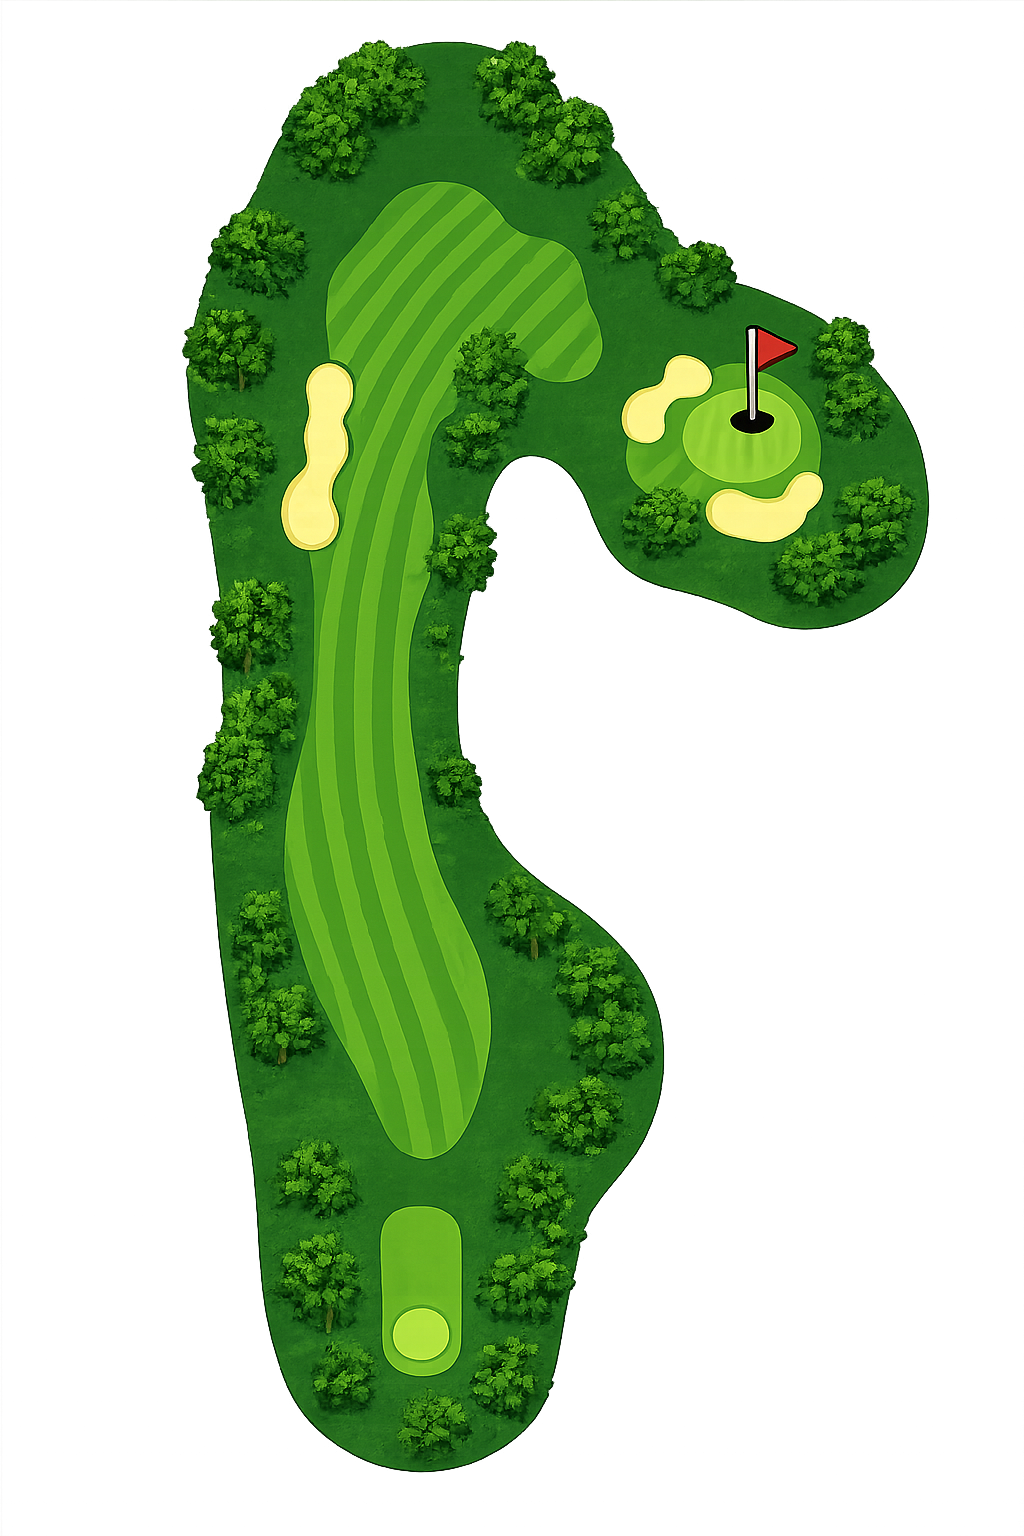
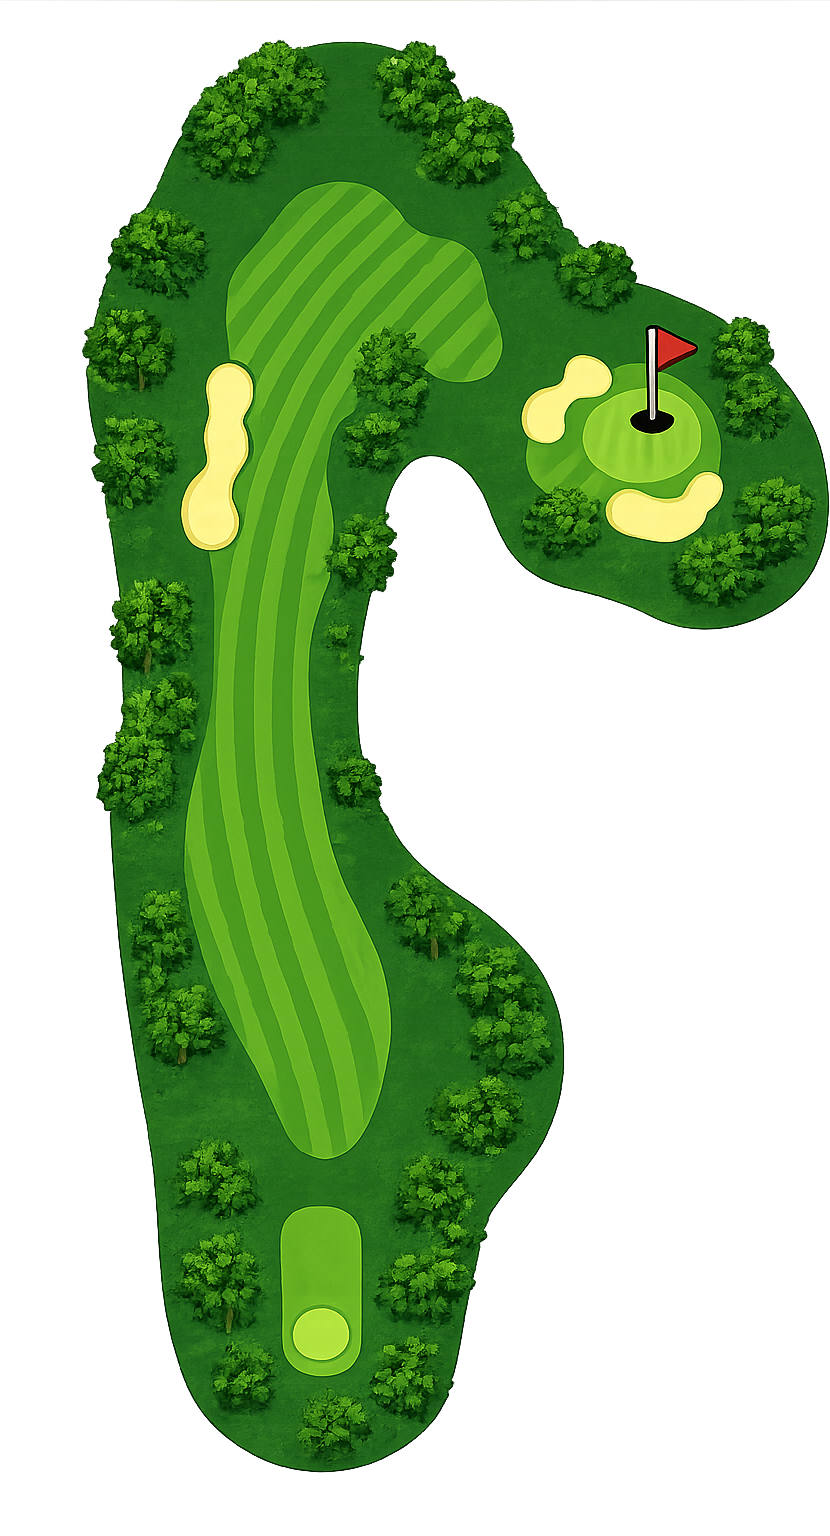
Golf lobby redesign, wii golf hole 6/7 crops, Augusta h3 calibration
- Redesign Normal Play card: consistent label+control row pattern for Mode/Type/Course/Holes
- Augusta first and default course, rename Pebble Beach Golf Links → Pebble Beach
- Course selector green pill styling; Start Hole stepper compact with floating label, bottom-aligned to dropdown
- Holes row inline with label
- Crop wii-golf holes 6 & 7 for mobile zoom; recalculate yscale and x-fracs
- Update calibration tool saved positions for wii-golf holes 6 & 7
- Add Augusta hole 3 bunker hazard and updated tee/green/waypoint positions

Changed region(s): [[0.0904, 0.0, 0.6928, 0.9688], [0.4518, 0.0312, 1.0, 0.4375], [0.5422, 0.2812, 0.5723, 0.3125]]

diff --git a/components/FootballGolf.tsx b/components/FootballGolf.tsx
@@ -559,6 +559,7 @@ const WII_GOLF_HOLES: HoleDef[] = [
 
 const AUGUSTA_HAZARDS: Record<number, { hazards?: {start:number;end:number}[]; bunkers?: {start:number;end:number}[] }> = {
    1: {bunkers:[{start:215,end:258}]},
+   3: {bunkers:[{start:166,end:222}]},
    4: {bunkers:[{start:214,end:230}]},
    5: {bunkers:[{start:252,end:271},{start:277,end:292}]},
    6: {bunkers:[{start:144,end:165}]},
@@ -579,7 +580,7 @@ const AUGUSTA_HAZARDS: Record<number, { hazards?: {start:number;end:number}[]; b
 const AUGUSTA_POSITIONS: Record<number, {teeFrac:[number,number]; greenFrac:[number,number]; waypointFracs?:[number,number][]}> = {
    1: {teeFrac:[0.482,0.902], greenFrac:[0.575,0.144], waypointFracs:[[0.43,0.445],[0.466,0.311]]},
    2: {teeFrac:[0.215,0.924], greenFrac:[0.449,0.107], waypointFracs:[[0.961,0.324]]},
-   3: {teeFrac:[0.562,0.917], greenFrac:[0.635,0.122], waypointFracs:[[0.506,0.296]]},
+   3: {teeFrac:[0.577,0.917], greenFrac:[0.637,0.12], waypointFracs:[[0.38,0.427],[0.303,0.247]]},
    4: {teeFrac:[0.506,0.847], greenFrac:[0.523,0.168]},
    5: {teeFrac:[0.426,0.895], greenFrac:[0.358,0.132], waypointFracs:[[0.705,0.414]]},
    6: {teeFrac:[0.484,0.87],  greenFrac:[0.448,0.178]},
@@ -782,7 +783,7 @@ function calcNewBallState(result:ShotResult, remaining:number, pastPin:boolean):
 export default function FootballGolf(){
   const [phase,setPhase]                 = useState<'setup'|'playing'|'done'|'daily-setup'|'daily-done'|'daily-round-setup'|'daily-round-done'>('setup')
   const [courseMode,setCourseMode]       = useState<'random'|'real'>('real')
-  const [selectedCourse,setSelectedCourse] = useState<string>('pebble-beach')
+  const [selectedCourse,setSelectedCourse] = useState<string>('augusta')
   const [numHoles,setNumHoles]           = useState<3|6|9|18>(3)
   const [tee,setTee]                     = useState<Tee>('White')
   const [startHole,setStartHole]         = useState(1)
@@ -2834,8 +2835,8 @@ const WII_GOLF_YSCALE: Record<number, number> = {
   3: 100/(629/1443),  // 229.4 — portrait
   4: 100/(200/715),   // 357.5 — cropped to 200px wide
   5: 100/(650/1536),  // 236.3 — cropped to 650px wide
-  6: 100/(370/674),   // 182.2
-  7: 100/(1024/1536), // 150.0
+  6: 100/(310/674),   // 217.4 — cropped to 310px wide
+  7: 100/(830/1536),  // 185.1 — cropped to 830px wide
 }
 const WII_GOLF_POSITIONS: Record<number, {teeFrac:[number,number]; greenFrac:[number,number]; waypointFracs?:[number,number][]}> = {
   1: {teeFrac:[0.502,0.946], greenFrac:[0.506,0.134], waypointFracs:[[0.351,0.436]]},
@@ -2843,8 +2844,8 @@ const WII_GOLF_POSITIONS: Record<number, {teeFrac:[number,number]; greenFrac:[nu
   3: {teeFrac:[0.238,0.909], greenFrac:[0.253,0.078], waypointFracs:[[0.918,0.62],[0.774,0.276]]},
   4: {teeFrac:[0.495,0.859], greenFrac:[0.411,0.222], waypointFracs:[[0.501,0.585],[0.501,0.432]]},
   5: {teeFrac:[0.586,0.839], greenFrac:[0.870,0.142], waypointFracs:[[0.106,0.405],[0.254,0.241]]},
-  6: {teeFrac:[0.346,0.892], greenFrac:[0.608,0.173], waypointFracs:[[0.478,0.42]]},
-  7: {teeFrac:[0.414,0.868], greenFrac:[0.736,0.273], waypointFracs:[[0.243,0.255],[0.436,0.109]]},
+  6: {teeFrac:[0.332,0.892], greenFrac:[0.645,0.173], waypointFracs:[[0.490,0.42]]},
+  7: {teeFrac:[0.390,0.868], greenFrac:[0.788,0.273], waypointFracs:[[0.180,0.255],[0.418,0.109]]},
 }
 const WII_GOLF_HAZARDS: Record<number, { hazards?: {start:number;end:number}[]; bunkers?: {start:number;end:number}[] }> = {
   1: {bunkers:[{start:185,end:236},{start:332,end:347}]},
@@ -2871,10 +2872,10 @@ function fracToSVG(frac:[number,number], yScale=260):{x:number;y:number}{
 // ── Setup screen ───────────────────────────────────────────────────────────────
 
 const REAL_COURSES = [
-  { id:'pebble-beach', name:'Pebble Beach Golf Links', available:true },
-  { id:'st-andrews',   name:'St Andrews — Old Course',  available:false },
   { id:'augusta',      name:'Augusta National',          available:true },
+  { id:'pebble-beach', name:'Pebble Beach',              available:true },
   { id:'wii-golf',     name:'Wii Sports — Golf',         available:true },
+  { id:'st-andrews',   name:'St Andrews — Old Course',  available:false },
   { id:'royal-birkdale',name:'Royal Birkdale',           available:false },
 ]
 
@@ -3101,97 +3102,93 @@ function SetupScreen({courseMode,setCourseMode,selectedCourse,setSelectedCourse,
       </div>
 
       {/* Normal Play card */}
-      <div style={{width:'100%',maxWidth:320,background:'#111827',border:'1.5px solid rgba(255,255,255,0.07)',borderRadius:16,padding:14,display:'flex',flexDirection:'column',gap:12}}>
-        <div style={{fontSize:10,fontWeight:800,color:'rgba(255,255,255,0.3)',textTransform:'uppercase',letterSpacing:'0.08em'}}>Normal Play</div>
+      {(()=>{
+        const rowLbl: React.CSSProperties = {fontSize:10,fontWeight:800,color:'rgba(255,255,255,0.3)',textTransform:'uppercase',letterSpacing:'0.08em',whiteSpace:'nowrap',flexShrink:0,minWidth:46}
+        const row: React.CSSProperties = {display:'flex',alignItems:'center',gap:10}
+        const pill = (active:boolean,disabled=false): React.CSSProperties => ({
+          flex:1,background:active?'rgba(34,197,94,0.12)':'rgba(255,255,255,0.04)',
+          color:disabled?'rgba(255,255,255,0.2)':active?'#22c55e':'rgba(255,255,255,0.6)',
+          border:`1.5px solid ${active?'rgba(34,197,94,0.5)':disabled?'rgba(255,255,255,0.03)':'rgba(255,255,255,0.07)'}`,
+          borderRadius:9,padding:'7px 0',fontSize:13,fontWeight:800,cursor:disabled?'not-allowed':'pointer',
+          fontFamily:'inherit',transition:'all 0.15s',opacity:disabled?0.4:1,
+        })
+        const maxH = courseHoleCount(selectedCourse)
+        return(
+        <div style={{width:'100%',maxWidth:320,background:'#111827',border:'1.5px solid rgba(255,255,255,0.07)',borderRadius:16,padding:'12px 14px',display:'flex',flexDirection:'column',gap:9}}>
+          <div style={{fontSize:10,fontWeight:800,color:'rgba(255,255,255,0.3)',textTransform:'uppercase',letterSpacing:'0.08em'}}>Normal Play</div>
 
-        {/* Solo / H2H */}
-        <div style={{background:'rgba(255,255,255,0.04)',borderRadius:10,padding:3,display:'grid',gridTemplateColumns:'1fr 1fr',gap:3}}>
-          {([['solo','Solo'],['h2h','Head to Head']] as const).map(([val,label])=>(
-            <button key={val} onClick={()=>setMode(val)} style={{background:mode===val?'rgba(34,197,94,0.15)':'transparent',color:mode===val?'#22c55e':'rgba(255,255,255,0.35)',border:`1.5px solid ${mode===val?'rgba(34,197,94,0.4)':'transparent'}`,borderRadius:8,padding:'8px 0',fontSize:12,fontWeight:800,cursor:'pointer',fontFamily:'inherit',transition:'all 0.15s'}}>
-              {label}
-            </button>
-          ))}
-        </div>
-
-        {/* Course type toggle */}
-        <div>
-          <div style={lbl}>Course Type</div>
-          <div style={{display:'grid',gridTemplateColumns:'1fr 1fr',gap:8}}>
-            <button onClick={()=>setCourseMode('real')}
-              style={{background:courseMode==='real'?'rgba(34,197,94,0.1)':'rgba(255,255,255,0.04)',color:'white',border:`2px solid ${courseMode==='real'?'#22c55e':'rgba(255,255,255,0.06)'}`,borderRadius:12,padding:'8px',cursor:'pointer',fontFamily:'inherit',transition:'all 0.15s',textAlign:'center'}}>
-              <div style={{fontSize:13,fontWeight:900}}>🏌️ Real Course</div>
-            </button>
-            <button onClick={()=>setCourseMode('random')}
-              style={{background:courseMode==='random'?'rgba(34,197,94,0.1)':'rgba(255,255,255,0.04)',color:'white',border:`2px solid ${courseMode==='random'?'#22c55e':'rgba(255,255,255,0.06)'}`,borderRadius:12,padding:'8px',cursor:'pointer',fontFamily:'inherit',transition:'all 0.15s',textAlign:'center'}}>
-              <div style={{fontSize:13,fontWeight:900}}>🎲 Random</div>
-            </button>
+          {/* Mode row */}
+          <div style={row}>
+            <div style={rowLbl}>Mode</div>
+            <button onClick={()=>setMode('solo')} style={pill(mode==='solo')}>Solo</button>
+            <button onClick={()=>setMode('h2h')} style={pill(mode==='h2h')}>Head to Head</button>
           </div>
-        </div>
 
-        {/* Real course options: course selector + start hole side by side */}
-        {courseMode==='real'&&(
-          <div style={{display:'grid',gridTemplateColumns:'1fr auto',gap:8,alignItems:'end'}}>
-            <div>
-              <div style={lbl}>Course</div>
-              <div style={{position:'relative'}}>
+          {/* Type row */}
+          <div style={row}>
+            <div style={rowLbl}>Type</div>
+            <button onClick={()=>setCourseMode('real')} style={pill(courseMode==='real')}>🏌️ Real</button>
+            <button onClick={()=>setCourseMode('random')} style={pill(courseMode==='random')}>🎲 Random</button>
+          </div>
+
+          {/* Course + start hole row (real only) */}
+          {courseMode==='real'&&(
+            <div style={{...row,alignItems:'flex-end'}}>
+              <div style={{...rowLbl,alignSelf:'center'}}>Course</div>
+              <div style={{flex:1,position:'relative'}}>
                 <select value={selectedCourse} onChange={e=>{ setSelectedCourse(e.target.value); if(e.target.value==='wii-golf' && numHoles===18) setNumHoles(3) }}
-                  style={{width:'100%',background:'rgba(255,255,255,0.04)',color:'white',border:'2px solid rgba(255,255,255,0.06)',borderRadius:10,padding:'10px 36px 10px 12px',fontSize:13,fontWeight:700,fontFamily:'inherit',cursor:'pointer',appearance:'none',WebkitAppearance:'none'}}>
+                  style={{width:'100%',background:'rgba(34,197,94,0.12)',color:'#22c55e',border:'1.5px solid rgba(34,197,94,0.5)',borderRadius:9,padding:'7px 32px 7px 10px',fontSize:13,fontWeight:700,fontFamily:'inherit',cursor:'pointer',appearance:'none',WebkitAppearance:'none'}}>
                   {REAL_COURSES.filter(c=>c.available).map(c=>(<option key={c.id} value={c.id}>{c.name}</option>))}
                   {REAL_COURSES.filter(c=>!c.available).map(c=>(<option key={c.id} value={c.id} disabled>{c.name} (soon)</option>))}
                 </select>
-                <div style={{position:'absolute',right:10,top:'50%',transform:'translateY(-50%)',pointerEvents:'none',color:'rgba(255,255,255,0.4)',fontSize:10,lineHeight:1}}>▼</div>
+                <div style={{position:'absolute',right:9,top:'50%',transform:'translateY(-50%)',pointerEvents:'none',color:'rgba(34,197,94,0.6)',fontSize:9}}>▼</div>
               </div>
-            </div>
-            <div>
-              <div style={lbl}>Start Hole</div>
-              <div style={{display:'flex',alignItems:'center',gap:4,background:'rgba(255,255,255,0.04)',border:'2px solid rgba(255,255,255,0.06)',borderRadius:10,padding:'6px 8px'}}>
-                {(()=>{const maxH=courseHoleCount(selectedCourse);return(<>
+              <div style={{position:'relative',flexShrink:0}}>
+                <div style={{position:'absolute',top:-13,left:'50%',transform:'translateX(-50%)',fontSize:7,fontWeight:800,color:'rgba(255,255,255,0.25)',textTransform:'uppercase',letterSpacing:'0.06em',whiteSpace:'nowrap'}}>Start Hole</div>
+              <div style={{display:'flex',alignItems:'center',gap:2,background:'rgba(255,255,255,0.04)',border:'1.5px solid rgba(255,255,255,0.07)',borderRadius:9,padding:'3px 4px'}}>
                 <button onClick={()=>setStartHole(startHole===1?maxH:startHole-1)}
-                  style={{background:'rgba(255,255,255,0.08)',color:'white',border:'none',borderRadius:5,width:26,height:26,fontSize:14,fontWeight:900,cursor:'pointer',fontFamily:'inherit',display:'flex',alignItems:'center',justifyContent:'center',flexShrink:0}}>‹</button>
-                <div style={{fontSize:18,fontWeight:900,color:'white',width:28,textAlign:'center',fontVariantNumeric:'tabular-nums'}}>
+                  style={{background:'rgba(255,255,255,0.08)',color:'white',border:'none',borderRadius:4,width:16,height:16,fontSize:10,fontWeight:900,cursor:'pointer',fontFamily:'inherit',display:'flex',alignItems:'center',justifyContent:'center'}}>‹</button>
+                <div style={{fontSize:11,fontWeight:900,color:'white',width:18,textAlign:'center',fontVariantNumeric:'tabular-nums'}}>
                   {String(Math.min(startHole,maxH)).padStart(2,'0')}
                 </div>
                 <button onClick={()=>setStartHole(startHole===maxH?1:startHole+1)}
-                  style={{background:'rgba(255,255,255,0.08)',color:'white',border:'none',borderRadius:5,width:26,height:26,fontSize:14,fontWeight:900,cursor:'pointer',fontFamily:'inherit',display:'flex',alignItems:'center',justifyContent:'center',flexShrink:0}}>›</button>
-                </>)})()}
+                  style={{background:'rgba(255,255,255,0.08)',color:'white',border:'none',borderRadius:4,width:16,height:16,fontSize:10,fontWeight:900,cursor:'pointer',fontFamily:'inherit',display:'flex',alignItems:'center',justifyContent:'center'}}>›</button>
+              </div>
               </div>
             </div>
-          </div>
-        )}
+          )}
 
-        {/* Holes */}
-        <div>
-          <div style={lbl}>Holes</div>
-          <div style={{display:'grid',gridTemplateColumns:'1fr 1fr 1fr 1fr',gap:6}}>
+          {/* Holes row */}
+          <div style={row}>
+            <div style={rowLbl}>Holes</div>
             {([3,6,9,18] as number[]).map(n=>{
-              const isWii = courseMode==='real' && selectedCourse==='wii-golf'
-              const disabled = isWii && n===18
-              const active = numHoles===n && !disabled
-              return (
-                <button key={n} onClick={()=>{ if(!disabled) setNumHoles(n) }} style={{background:active?'rgba(34,197,94,0.1)':'rgba(255,255,255,0.04)',color:disabled?'rgba(255,255,255,0.2)':active?'#22c55e':'white',border:`2px solid ${active?'#22c55e':disabled?'rgba(255,255,255,0.03)':'rgba(255,255,255,0.06)'}`,borderRadius:10,padding:'7px 0',fontSize:16,fontWeight:900,cursor:disabled?'not-allowed':'pointer',fontFamily:'inherit',transition:'all 0.15s',opacity:disabled?0.4:1}}>
+              const disabled = courseMode==='real' && selectedCourse==='wii-golf' && n===18
+              return(
+                <button key={n} onClick={()=>{ if(!disabled) setNumHoles(n) }} style={pill(numHoles===n && !disabled, disabled)}>
                   {n}
                 </button>
               )
             })}
           </div>
-        </div>
 
-        {/* CTA */}
-        {mode==='solo'
-          ? <button onClick={onStart} style={{width:'100%',background:'#22c55e',color:'#0a0f1e',border:'none',borderRadius:12,padding:'14px 0',fontSize:16,fontWeight:900,cursor:'pointer',fontFamily:'inherit'}}>
-              Tee Off →
-            </button>
-          : <div style={{display:'flex',alignItems:'center',gap:8}}>
-              <button onClick={onH2H} style={{flex:1,background:'#22c55e',color:'#0a0f1e',border:'none',borderRadius:12,padding:'14px 0',fontSize:14,fontWeight:900,cursor:'pointer',fontFamily:'inherit'}}>
-                Create Room
+          {/* CTA */}
+          {mode==='solo'
+            ? <button onClick={onStart} style={{width:'100%',background:'#22c55e',color:'#0a0f1e',border:'none',borderRadius:10,padding:'12px 0',fontSize:15,fontWeight:900,cursor:'pointer',fontFamily:'inherit',marginTop:2}}>
+                Tee Off →
               </button>
-              <div style={{fontSize:11,fontWeight:700,color:'rgba(255,255,255,0.25)'}}>or</div>
-              <button onClick={onJoin} style={{flex:1,background:'rgba(255,255,255,0.06)',color:'white',border:'2px solid rgba(255,255,255,0.08)',borderRadius:12,padding:'14px 0',fontSize:14,fontWeight:900,cursor:'pointer',fontFamily:'inherit'}}>
-                Join Room
-              </button>
-            </div>
-        }
-      </div>
+            : <div style={{display:'flex',alignItems:'center',gap:8,marginTop:2}}>
+                <button onClick={onH2H} style={{flex:1,background:'#22c55e',color:'#0a0f1e',border:'none',borderRadius:10,padding:'12px 0',fontSize:13,fontWeight:900,cursor:'pointer',fontFamily:'inherit'}}>
+                  Create Room
+                </button>
+                <div style={{fontSize:11,fontWeight:700,color:'rgba(255,255,255,0.25)'}}>or</div>
+                <button onClick={onJoin} style={{flex:1,background:'rgba(255,255,255,0.06)',color:'white',border:'1.5px solid rgba(255,255,255,0.08)',borderRadius:10,padding:'12px 0',fontSize:13,fontWeight:900,cursor:'pointer',fontFamily:'inherit'}}>
+                  Join Room
+                </button>
+              </div>
+          }
+        </div>
+        )
+      })()}
     </div>
   )
 }

diff --git a/app/golf-calibrate/page.tsx b/app/golf-calibrate/page.tsx
@@ -78,8 +78,8 @@ const SAVED_POSITIONS_WII: Record<number, { teeFrac: FracPt; greenFrac: FracPt; 
   3: {teeFrac:[0.238,0.909], greenFrac:[0.253,0.078], waypointFracs:[[0.918,0.62],[0.774,0.276]]},
   4: {teeFrac:[0.495,0.859], greenFrac:[0.411,0.222], waypointFracs:[[0.501,0.585],[0.501,0.432]]},
   5: {teeFrac:[0.586,0.839], greenFrac:[0.870,0.142], waypointFracs:[[0.106,0.405],[0.254,0.241]]},
-  6: {teeFrac:[0.346,0.892], greenFrac:[0.608,0.173], waypointFracs:[[0.478,0.42]]},
-  7: {teeFrac:[0.414,0.868], greenFrac:[0.736,0.273], waypointFracs:[[0.243,0.255],[0.436,0.109]]},
+  6: {teeFrac:[0.332,0.892], greenFrac:[0.645,0.173], waypointFracs:[[0.490,0.42]]},
+  7: {teeFrac:[0.390,0.868], greenFrac:[0.788,0.273], waypointFracs:[[0.180,0.255],[0.418,0.109]]},
 }
 const HOLE_DISTANCES_WII: Record<number, number> = {
   1: 370, 2: 134, 3: 465,